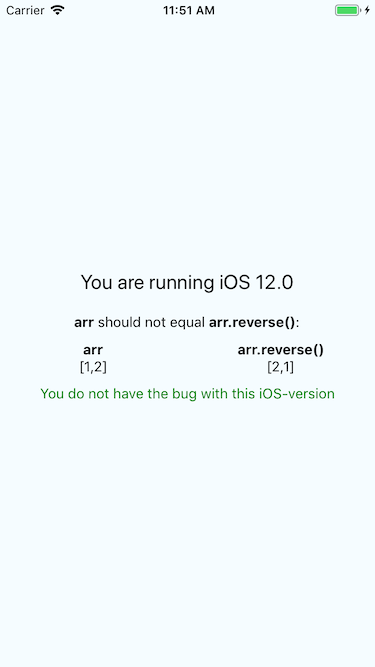
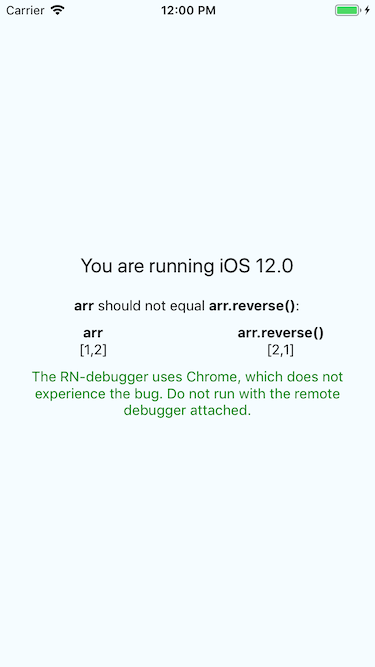
Fix margin and update green screenshot

Changed region(s): [[0.088, 0.3898, 0.9093, 0.6297], [0.44, 0.0, 0.5867, 0.03]]

diff --git a/App.js b/App.js
@@ -41,7 +41,7 @@ export default class App extends Component {
           <Text
             style={[
               styles.instructions,
-              { color: buggy ? "red" : "green", marginVertical: 10 }
+              { color: buggy ? "red" : "green", margin: 10 }
             ]}
           >
             {buggy
